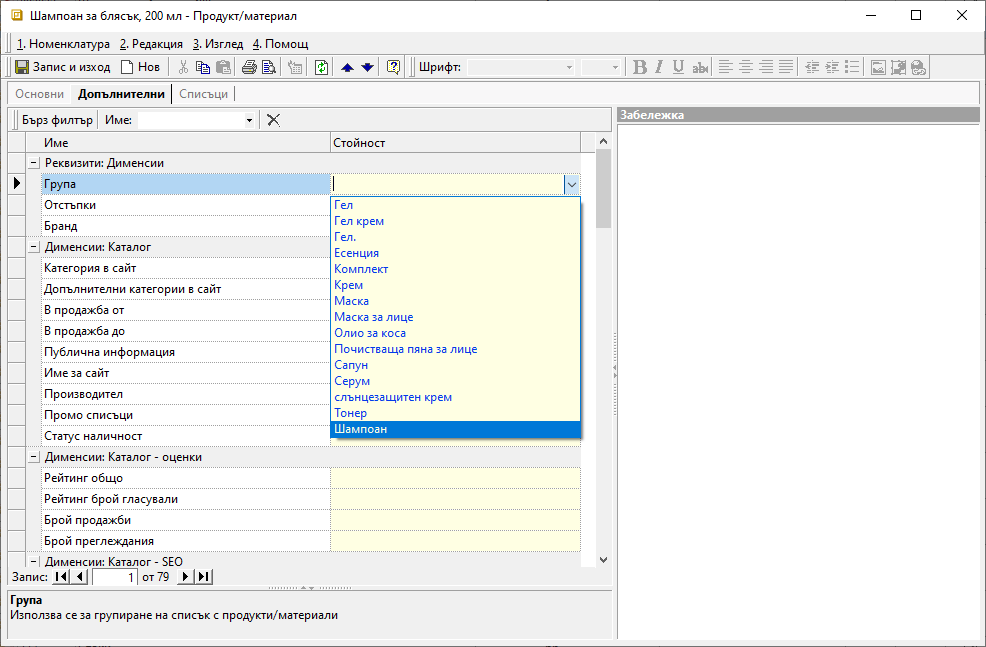
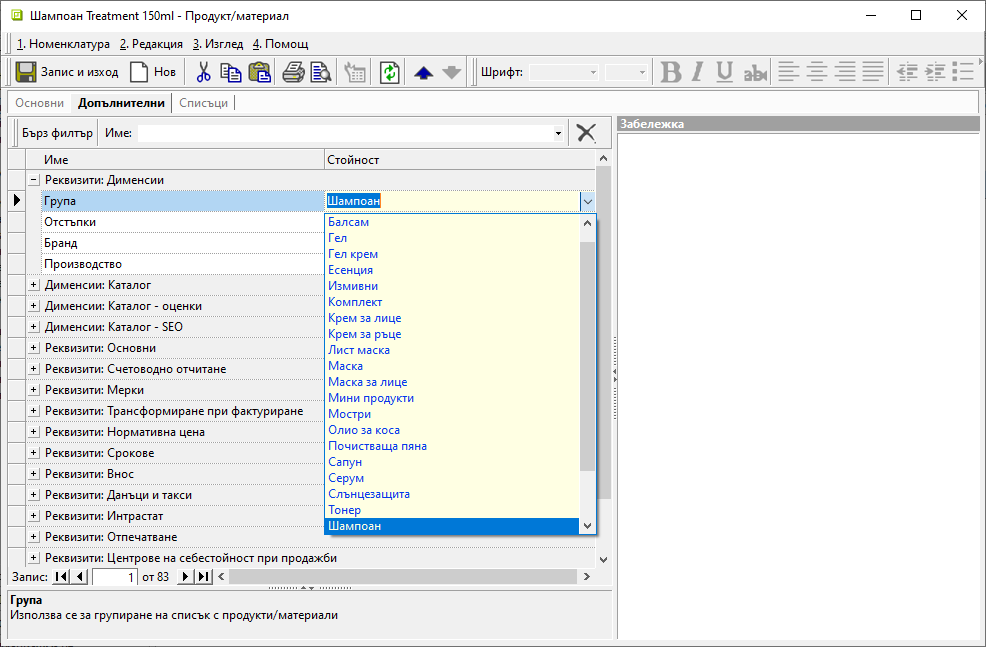
Нови изображения - Използване на дименсии в продукти

diff --git a/guide/erp/005-how-to/015-custom-dimensions.md b/guide/erp/005-how-to/015-custom-dimensions.md
@@ -22,7 +22,7 @@
 
 ## **Използване на дименсии в Продукти и материали**
 
-При създаване на нов, или редактиране само на един продукт, дименсия се добавя по следния начин:
+При създаване на нов продукт дименсия се добавя по следния начин:
 
 1) Във форма за редакция се отваря панел [**Допълнителни » Реквизити: Дименсии**](../001-ref/001-nomenclatures/010-custom-dimensions.md), където са показани всички предварително създадени дименсии, отнасящи се до продукти. В колона **Стойност** като падащ списък се визуализират подкатегории, от който се избира желаната.  
 Действието се повтаря за всички дименсии, в които даден продукт ще участва.
